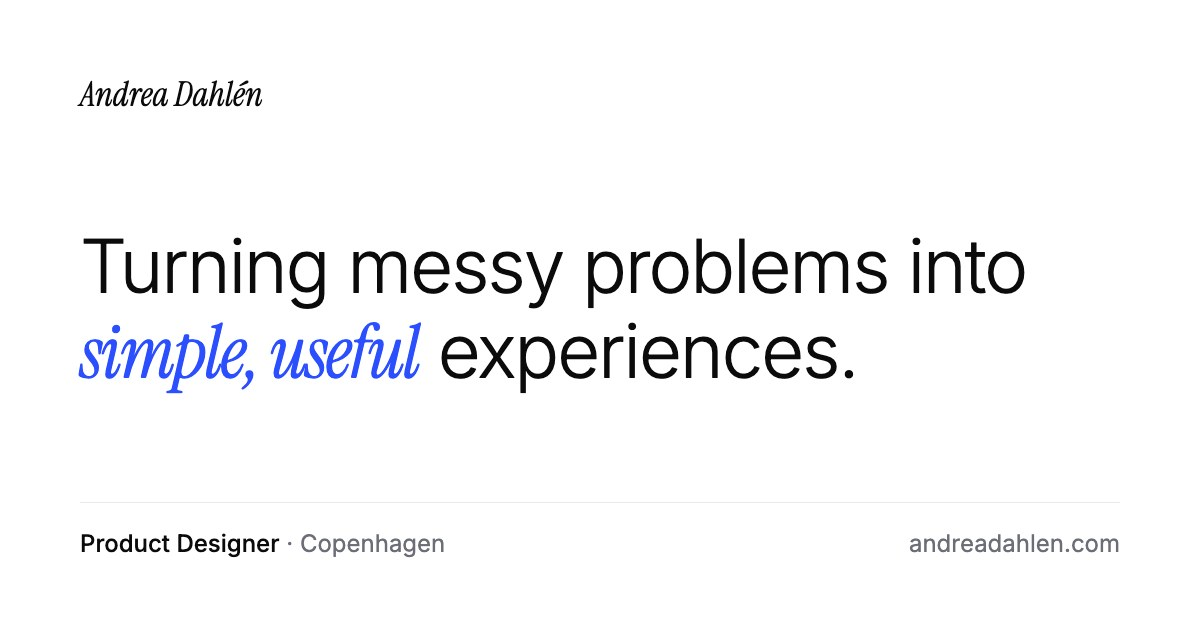
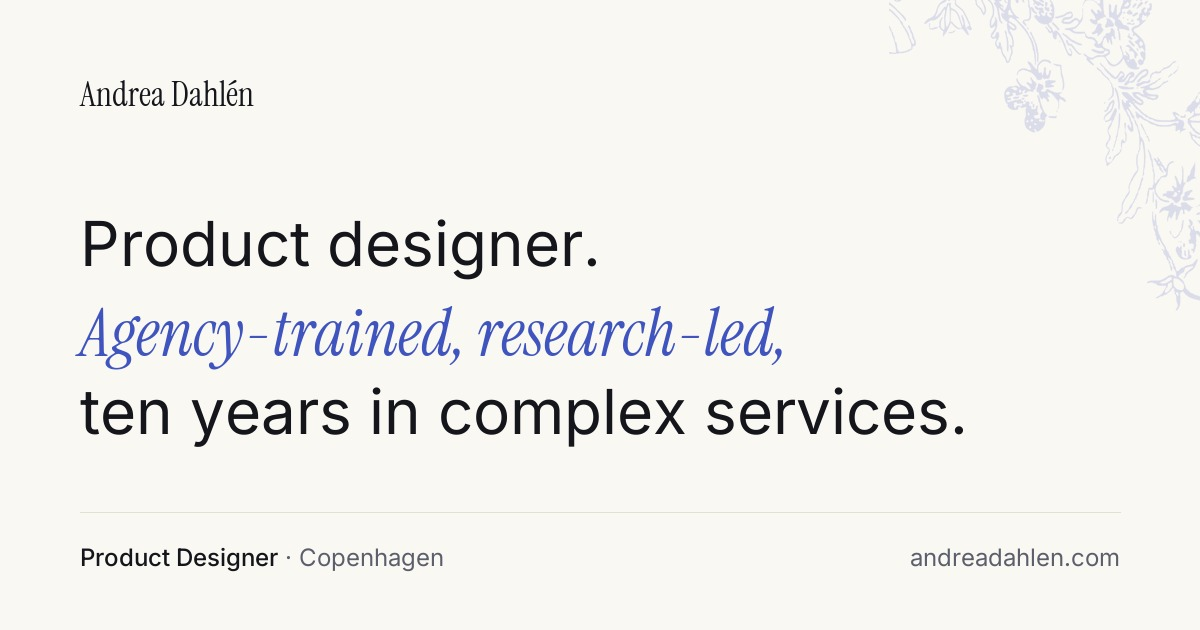
Refresh the link-preview metadata
- New og-image: the old one still carried the previous headline, "Turning messy
  problems into simple, useful experiences"
- Point canonical, og:url and og:image at the apex domain; the www versions
  301-redirect, so they were canonicalising to a URL that does not serve
- Version the og:image URL so social platforms refetch instead of serving the
  cached old card

diff --git a/work/shelter-scotland.html b/work/shelter-scotland.html
@@ -5,12 +5,12 @@
 <meta name="viewport" content="width=device-width, initial-scale=1.0" />
 <title>Shelter — a design system, and the team behind it</title>
 <meta name="description" content="Five years across Shelter and Shelter Scotland: building the pattern library and design system through the rebrand, then leading the Scottish digital estate to WCAG 2.1 AA." />
-<link rel="canonical" href="https://www.andreadahlen.com/work/shelter-scotland.html" />
+<link rel="canonical" href="https://andreadahlen.com/work/shelter-scotland.html" />
 <meta property="og:type" content="article" />
 <meta property="og:title" content="Shelter — a design system, and the team behind it" />
 <meta property="og:description" content="Five years across Shelter and Shelter Scotland: building the pattern library and design system through the rebrand, then leading the Scottish digital estate to WCAG 2.1 AA." />
-<meta property="og:url" content="https://www.andreadahlen.com/work/shelter-scotland.html" />
-<meta property="og:image" content="https://www.andreadahlen.com/og-image.jpg" />
+<meta property="og:url" content="https://andreadahlen.com/work/shelter-scotland.html" />
+<meta property="og:image" content="https://andreadahlen.com/og-image.jpg?v=2" />
 <meta property="og:image:width" content="1200" />
 <meta property="og:image:height" content="630" />
 <meta name="twitter:card" content="summary_large_image" />

diff --git a/work/business-gateway.html b/work/business-gateway.html
@@ -5,12 +5,12 @@
 <meta name="viewport" content="width=device-width, initial-scale=1.0" />
 <title>Business Gateway — a site that had outgrown its own structure</title>
 <meta name="description" content="A full redevelopment separating start-up from growth, with a personalisation tool completed by 85% of users, delivered to a WAI ‘A’ accessibility rating." />
-<link rel="canonical" href="https://www.andreadahlen.com/work/business-gateway.html" />
+<link rel="canonical" href="https://andreadahlen.com/work/business-gateway.html" />
 <meta property="og:type" content="article" />
 <meta property="og:title" content="Business Gateway — a site that had outgrown its own structure" />
 <meta property="og:description" content="A full redevelopment separating start-up from growth, with a personalisation tool completed by 85% of users, delivered to a WAI ‘A’ accessibility rating." />
-<meta property="og:url" content="https://www.andreadahlen.com/work/business-gateway.html" />
-<meta property="og:image" content="https://www.andreadahlen.com/og-image.jpg" />
+<meta property="og:url" content="https://andreadahlen.com/work/business-gateway.html" />
+<meta property="og:image" content="https://andreadahlen.com/og-image.jpg?v=2" />
 <meta property="og:image:width" content="1200" />
 <meta property="og:image:height" content="630" />
 <meta name="twitter:card" content="summary_large_image" />

diff --git a/work/tours-management-system.html b/work/tours-management-system.html
@@ -5,12 +5,12 @@
 <meta name="viewport" content="width=device-width, initial-scale=1.0" />
 <title>Tours Management System — three audiences, one system</title>
 <meta name="description" content="A bespoke tours platform for VisitScotland serving operators, visitors and administrators, which ran 1,600+ tours in its first year, up from under 700." />
-<link rel="canonical" href="https://www.andreadahlen.com/work/tours-management-system.html" />
+<link rel="canonical" href="https://andreadahlen.com/work/tours-management-system.html" />
 <meta property="og:type" content="article" />
 <meta property="og:title" content="Tours Management System — three audiences, one system" />
 <meta property="og:description" content="A bespoke tours platform for VisitScotland serving operators, visitors and administrators, which ran 1,600+ tours in its first year, up from under 700." />
-<meta property="og:url" content="https://www.andreadahlen.com/work/tours-management-system.html" />
-<meta property="og:image" content="https://www.andreadahlen.com/og-image.jpg" />
+<meta property="og:url" content="https://andreadahlen.com/work/tours-management-system.html" />
+<meta property="og:image" content="https://andreadahlen.com/og-image.jpg?v=2" />
 <meta property="og:image:width" content="1200" />
 <meta property="og:image:height" content="630" />
 <meta name="twitter:card" content="summary_large_image" />

diff --git a/work/nudging.html b/work/nudging.html
@@ -5,12 +5,12 @@
 <meta name="viewport" content="width=device-width, initial-scale=1.0" />
 <title>Nudging — from automatic to reflective</title>
 <meta name="description" content="An MA dissertation on behavioural design, asking whether nudge principles could close the gap between what NHS staff intend to do with clinical waste and what happens at the bin." />
-<link rel="canonical" href="https://www.andreadahlen.com/work/nudging.html" />
+<link rel="canonical" href="https://andreadahlen.com/work/nudging.html" />
 <meta property="og:type" content="article" />
 <meta property="og:title" content="Nudging — from automatic to reflective" />
 <meta property="og:description" content="An MA dissertation on behavioural design, asking whether nudge principles could close the gap between what NHS staff intend to do with clinical waste and what happens at the bin." />
-<meta property="og:url" content="https://www.andreadahlen.com/work/nudging.html" />
-<meta property="og:image" content="https://www.andreadahlen.com/og-image.jpg" />
+<meta property="og:url" content="https://andreadahlen.com/work/nudging.html" />
+<meta property="og:image" content="https://andreadahlen.com/og-image.jpg?v=2" />
 <meta property="og:image:width" content="1200" />
 <meta property="og:image:height" content="630" />
 <meta name="twitter:card" content="summary_large_image" />

diff --git a/work/famly.html b/work/famly.html
@@ -5,12 +5,12 @@
 <meta name="viewport" content="width=device-width, initial-scale=1.0" />
 <title>Famly — I built this instead of a cover letter</title>
 <meta name="description" content="A speculative concept taken from idea to a clickable prototype with Claude Code rather than starting in Figma, and what AI actually changed about the design job." />
-<link rel="canonical" href="https://www.andreadahlen.com/work/famly.html" />
+<link rel="canonical" href="https://andreadahlen.com/work/famly.html" />
 <meta property="og:type" content="article" />
 <meta property="og:title" content="Famly — I built this instead of a cover letter" />
 <meta property="og:description" content="A speculative concept taken from idea to a clickable prototype with Claude Code rather than starting in Figma, and what AI actually changed about the design job." />
-<meta property="og:url" content="https://www.andreadahlen.com/work/famly.html" />
-<meta property="og:image" content="https://www.andreadahlen.com/og-image.jpg" />
+<meta property="og:url" content="https://andreadahlen.com/work/famly.html" />
+<meta property="og:image" content="https://andreadahlen.com/og-image.jpg?v=2" />
 <meta property="og:image:width" content="1200" />
 <meta property="og:image:height" content="630" />
 <meta name="twitter:card" content="summary_large_image" />

diff --git a/work/tabatwo.html b/work/tabatwo.html
@@ -5,12 +5,12 @@
 <meta name="viewport" content="width=device-width, initial-scale=1.0" />
 <title>Tabatwo — everything, and in need of direction</title>
 <meta name="description" content="Five moderated usability sessions across eight product areas, themed and ranked into a backlog a team could ship against during a pivotal build phase." />
-<link rel="canonical" href="https://www.andreadahlen.com/work/tabatwo.html" />
+<link rel="canonical" href="https://andreadahlen.com/work/tabatwo.html" />
 <meta property="og:type" content="article" />
 <meta property="og:title" content="Tabatwo — everything, and in need of direction" />
 <meta property="og:description" content="Five moderated usability sessions across eight product areas, themed and ranked into a backlog a team could ship against during a pivotal build phase." />
-<meta property="og:url" content="https://www.andreadahlen.com/work/tabatwo.html" />
-<meta property="og:image" content="https://www.andreadahlen.com/og-image.jpg" />
+<meta property="og:url" content="https://andreadahlen.com/work/tabatwo.html" />
+<meta property="og:image" content="https://andreadahlen.com/og-image.jpg?v=2" />
 <meta property="og:image:width" content="1200" />
 <meta property="og:image:height" content="630" />
 <meta name="twitter:card" content="summary_large_image" />

diff --git a/index.html b/index.html
@@ -5,12 +5,12 @@
 <meta name="viewport" content="width=device-width, initial-scale=1.0" />
 <title>Andrea Dahlén — Product Designer</title>
 <meta name="description" content="Product designer. Agency-trained, research-led, ten years in complex services. UX, UI, research and product strategy for NHS Scotland, Shelter, agency clients and early-stage teams." />
-<link rel="canonical" href="https://www.andreadahlen.com/" />
+<link rel="canonical" href="https://andreadahlen.com/" />
 <meta property="og:type" content="profile" />
 <meta property="og:title" content="Andrea Dahlén — Product Designer" />
 <meta property="og:description" content="Product designer. Agency-trained, research-led, ten years in complex services. UX, UI, research and product strategy for NHS Scotland, Shelter, agency clients and early-stage teams." />
-<meta property="og:url" content="https://www.andreadahlen.com/" />
-<meta property="og:image" content="https://www.andreadahlen.com/og-image.jpg" />
+<meta property="og:url" content="https://andreadahlen.com/" />
+<meta property="og:image" content="https://andreadahlen.com/og-image.jpg?v=2" />
 <meta property="og:image:width" content="1200" />
 <meta property="og:image:height" content="630" />
 <meta name="twitter:card" content="summary_large_image" />

diff --git a/cv.html b/cv.html
@@ -5,12 +5,12 @@
 <meta name="viewport" content="width=device-width, initial-scale=1.0" />
 <title>CV — Andrea Dahlén</title>
 <meta name="description" content="Ten years across product design, UX and research in regulated, high-complexity environments. Agency first, then charity and public sector, now freelance." />
-<link rel="canonical" href="https://www.andreadahlen.com/cv.html" />
+<link rel="canonical" href="https://andreadahlen.com/cv.html" />
 <meta property="og:type" content="profile" />
 <meta property="og:title" content="CV — Andrea Dahlén" />
 <meta property="og:description" content="Ten years across product design, UX and research in regulated, high-complexity environments. Agency first, then charity and public sector, now freelance." />
-<meta property="og:url" content="https://www.andreadahlen.com/cv.html" />
-<meta property="og:image" content="https://www.andreadahlen.com/og-image.jpg" />
+<meta property="og:url" content="https://andreadahlen.com/cv.html" />
+<meta property="og:image" content="https://andreadahlen.com/og-image.jpg?v=2" />
 <meta property="og:image:width" content="1200" />
 <meta property="og:image:height" content="630" />
 <meta name="twitter:card" content="summary_large_image" />
